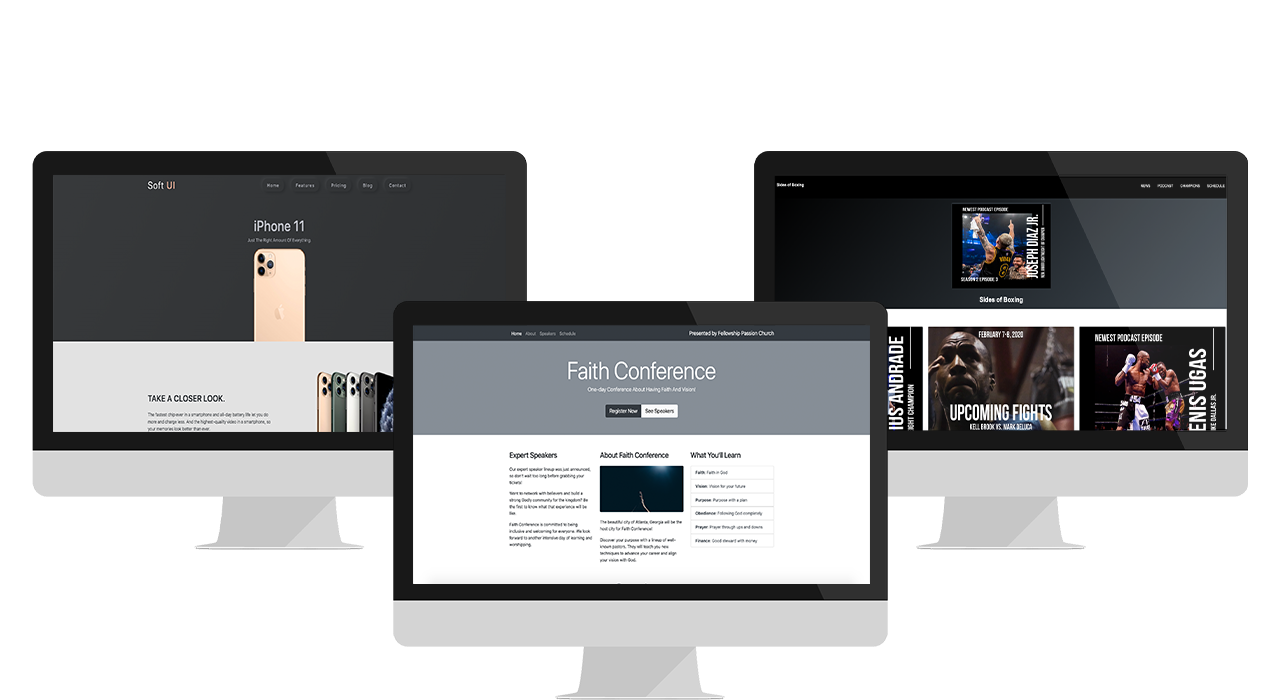
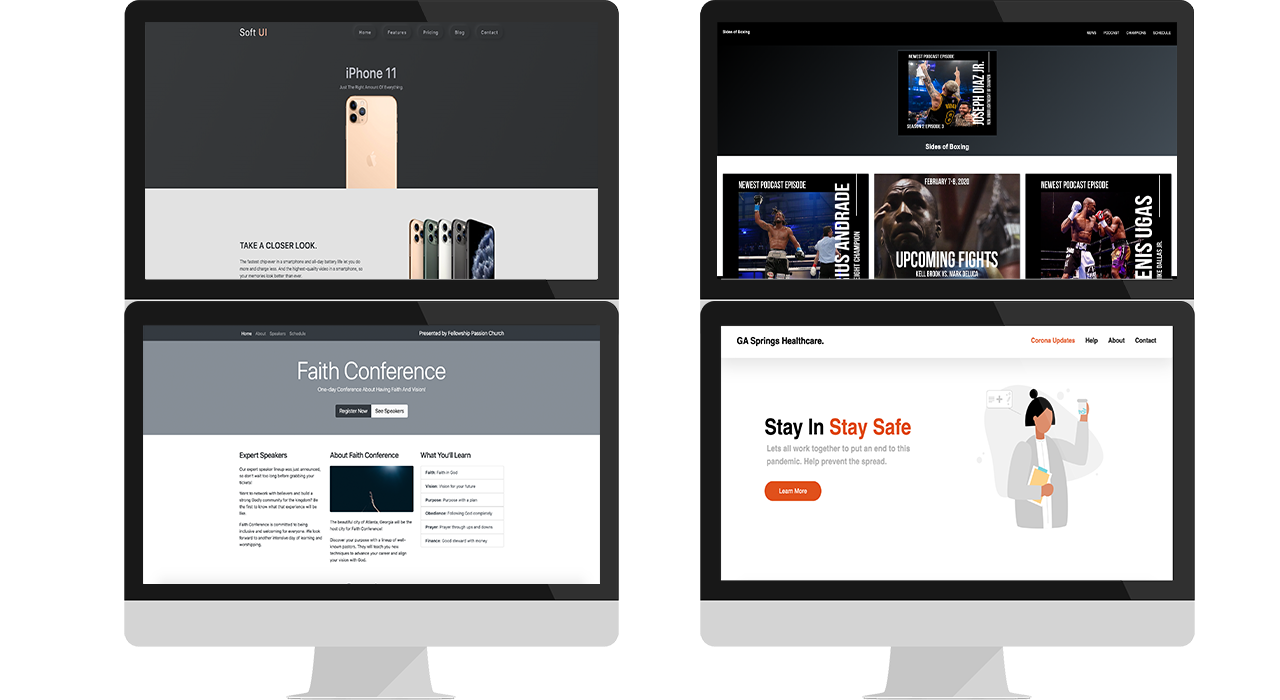
adding effects

diff --git a/index.html b/index.html
@@ -16,6 +16,7 @@
     <link rel="stylesheet" href="projects.html">
     <link rel="stylesheet" href="contact.html">
     <link rel="stylesheet" href="https://use.fontawesome.com/releases/v5.0.13/css/all.css" integrity="sha384-DNOHZ68U8hZfKXOrtjWvjxusGo9WQnrNx2sqG0tfsghAvtVlRW3tvkXWZh58N9jp" crossorigin="anonymous">
+    <link href="https://unpkg.com/aos@2.3.1/dist/aos.css" rel="stylesheet">
 </head>
 </head>
 <body>
@@ -34,16 +35,16 @@
                 <ul class="nav-list">
                     <div class="menu-icons close">
                     </div>
-                    <li class="nav-item">
+                    <li class="nav-item" data-aos="fade-right" data-aos-duration="1000">
                         <a href="index.html" class="nav-link">Home</a>
                     </li>
-                    <li class="nav-item">
+                    <li class="nav-item" data-aos="fade-right" data-aos-duration="1000">
                         <a href="#AboutMe" class="nav-link">About</a>
                     </li>
-                    <li class="nav-item">
+                    <li class="nav-item" data-aos="fade-left" data-aos-duration="1000">
                         <a href="contact.html" class="nav-link1">Contact</a>
                     </li>
-                    <li class="nav-item">
+                    <li class="nav-item" data-aos="fade-left" data-aos-duration="1000">
                         <a href="projects.html" class="nav-link1">Projects</a>
                     </li>
                 </ul>
@@ -61,12 +62,12 @@
                     <p> 
                         Based in Atlanta, GA
                     </p>
-                    <div class="cta">
+                    <div class="cta" data-aos="fade-up" data-aos-duration="1200">
                         <a href="projects.html" class="btn">Projects</a>
                     </div>
                 </div>
             </div>
-            <img src="images/Logo(White).png" alt="Logo" class="logo" style="width: 100px; height: 100px;">
+            <img src="images/Logo(White).png" alt="Logo" class="logo" style="width: 100px; height: 100px;" data-aos="fade-up" data-aos-duration="1200">
         </section>
 
         <section class="experience-outdoors">
@@ -80,7 +81,7 @@
                                 <div class="service-icon">
                                     <i class="fas fa-code"></i>
                                 </div>
-                                <div class="section-title">Skills</div>
+                                <div class="section-title" data-aos="flip-up" data-aos-duration="1000">Skills</div>
                                 <div class="service-desc">
                                     HTML5, CSS3, JavaScript, Git, Bootstrap, Responsive Web Design,
             RESTful API, React, jQuery, JSON, AJAX, Swift
@@ -92,7 +93,7 @@
                                 <div class="service-icon">
                                     <i class="fas fa-user-tie"></i>
                                 </div>
-                                <div class="section-title">Background</div>
+                                <div class="section-title" data-aos="flip-up" data-aos-duration="1000">Background</div>
                                 <div class="service-desc">
                                     I have a passion for web design and I enjoy creating and customizing websites and mobile devices. I focus on the client-side of development and I constanly work on my craft to improve and learn from mistakes. In addition, I am solution-driven to fix bugs that will allow websites to run efficiently. I strive to impact corporations through intuitive displays that captivate each customer to experience more.
                                 </div>
@@ -102,7 +103,7 @@
                                 <div class="service-icon">
                                     <i class="fas fa-camera"></i>
                                 </div>
-                                <div class="section-title">Design</div>
+                                <div class="section-title" data-aos="flip-up" data-aos-duration="1000">Design</div>
                                 <div class="service-desc">
                                     Adobe Photoshop, Adobe InDesign, Adobe Illustrator, and Adobe Premier Pro
                                 </div>
@@ -120,7 +121,7 @@
                 </div>
             </div>
             <a href="projects.html">
-            <img src="images/portfolio.png" alt="Logo" class="mac" style="width: 720px; height: 305px;">
+            <img src="images/portfolio.png" alt="Logo" class="mac" style="width: 720px; height: 305px;" data-aos="fade-up" data-aos-duration="1200">
             </a>
         </section>
     </main>
@@ -141,5 +142,10 @@
         <img src="images/Logobl.png" alt="logobl" class="bl">
     </div>
     </footer>
+
+    <script src="https://unpkg.com/aos@2.3.1/dist/aos.js"></script>
+    <script>
+        AOS.init();
+    </script>
 </body>
 </html>

diff --git a/projects.html b/projects.html
@@ -62,6 +62,20 @@
             <img src="images/Logo(White).png" alt="Logo" class="logo" style="width: 100px; height: 100px;">
         </section>
 
+        <section class="hero4">
+            <div class="container">
+            </div>
+            <img src="images/healthcare.png" alt="Logo" class="mac1" style="width: 690px; height: 520px;">
+            <div class="title-heading">
+                <h1>GA Springs Healthcare</h1>
+                <h2>HTML | CSS</h2>
+                <h3> I created a healthcare website to give awareness to Covid-19. I displayed details on how to stay safe with animations that describes the text. This website makes every person gave insight and makes it friendly to any audience.</h3>
+                <div class="cta">
+                    <a href="https://joshsermon.github.io/Healthcare/" class="btn3">View Code</a>
+                </div>
+            </div>
+        </section>
+
         <section class="hero1">
             <div class="container">
             </div>
@@ -259,6 +273,14 @@ header{
     position: relative;
 }
 
+.hero4{
+    width: 100%;
+    height: 110vh;
+    background: linear-gradient(360deg, #bd632f, #E2E2E2 100%), url("images/header-bg.jpg") center no-repeat;
+    background-size: cover;
+    position: relative;
+}
+
 .hero::before{
     content: "";
     position: absolute;
@@ -354,6 +376,23 @@ header{
     font-size: 12px;
 }
 
+.btn3{
+    background-color: #bd632f;
+    border-radius: 1rem;
+    color: #fafafa;
+    display: inline-block;
+    margin-top: 1px;
+    padding: 2rem 2rem;
+    text-transform: uppercase;
+    transition: background-color 650ms;
+    font-family: 'Helvetica Neue', sans-serif;
+    position: relative;
+    margin-left: 44%;
+    width: 9%;
+    text-align: center;
+    font-size: 12px;
+}
+
 .btn:hover{
     background-color: #87bba2;
 }
@@ -364,6 +403,10 @@ header{
 
 .btn2:hover{
     background-color: #4281a4;
+}
+
+.btn3:hover{
+    background-color: #522000;
 }
 
 .title-heading{

diff --git a/styles.css b/styles.css
@@ -283,6 +283,7 @@ header{
     margin-left: auto;
     margin-right: auto;
     width: 50%;
+    margin-top: 40px;
 }
 
   /* footer section */
